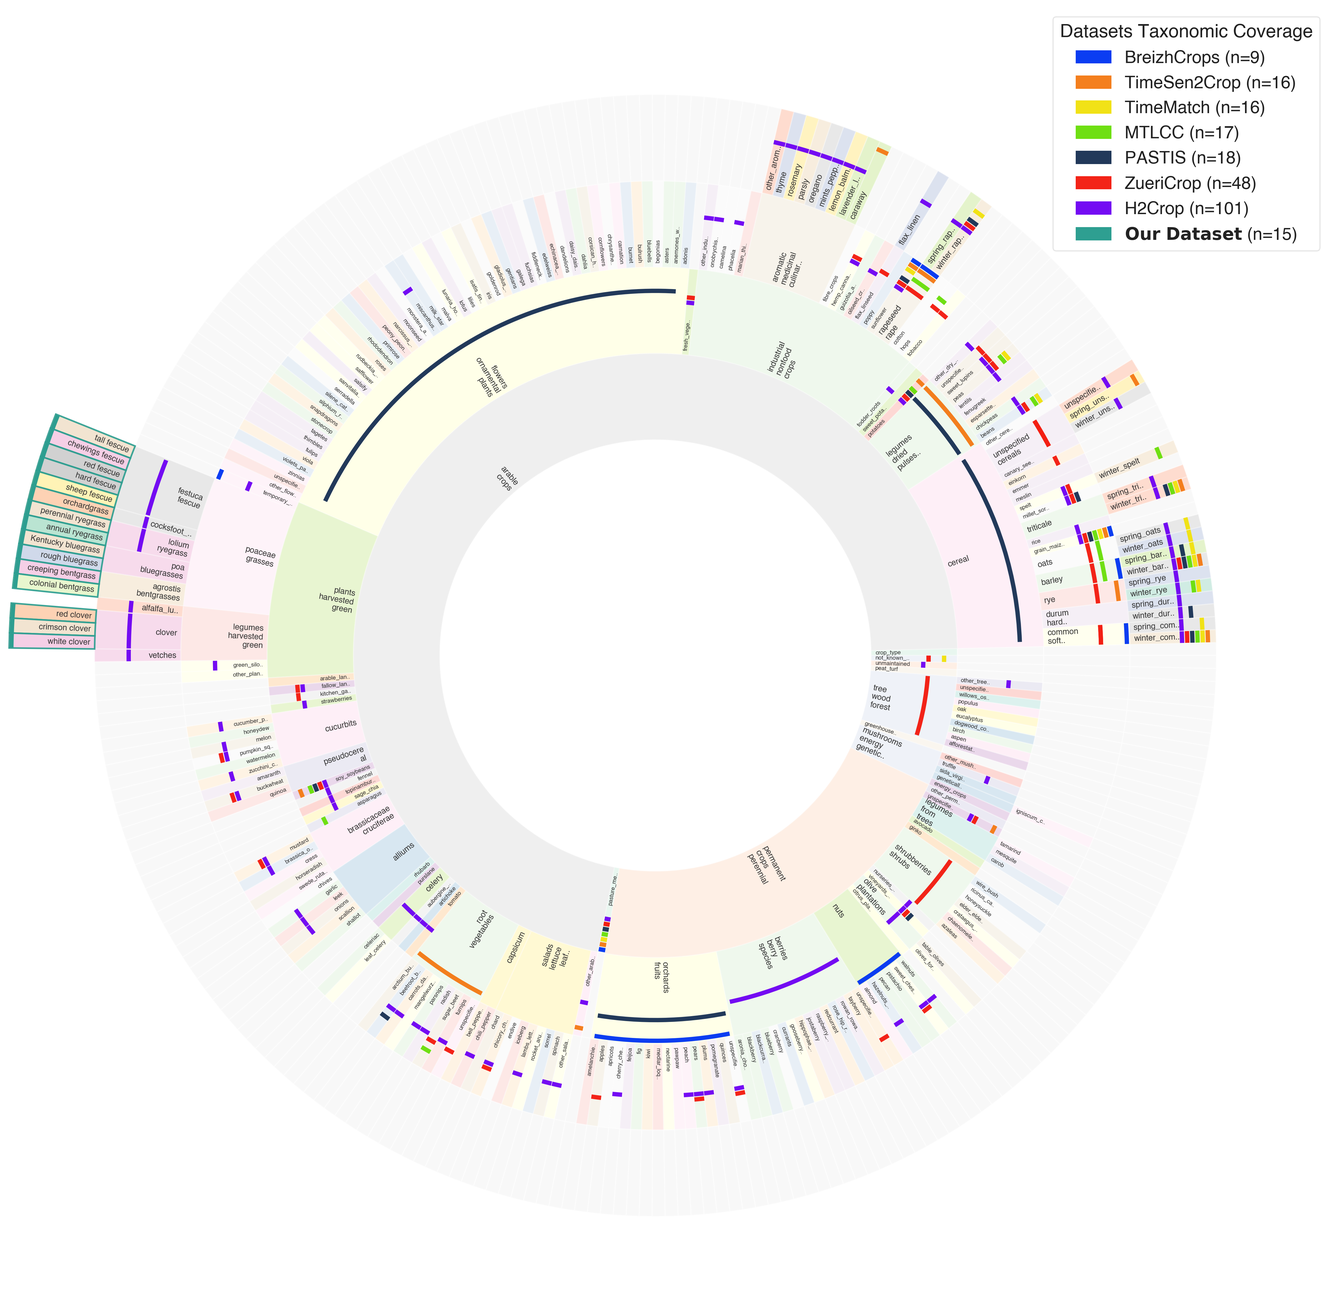
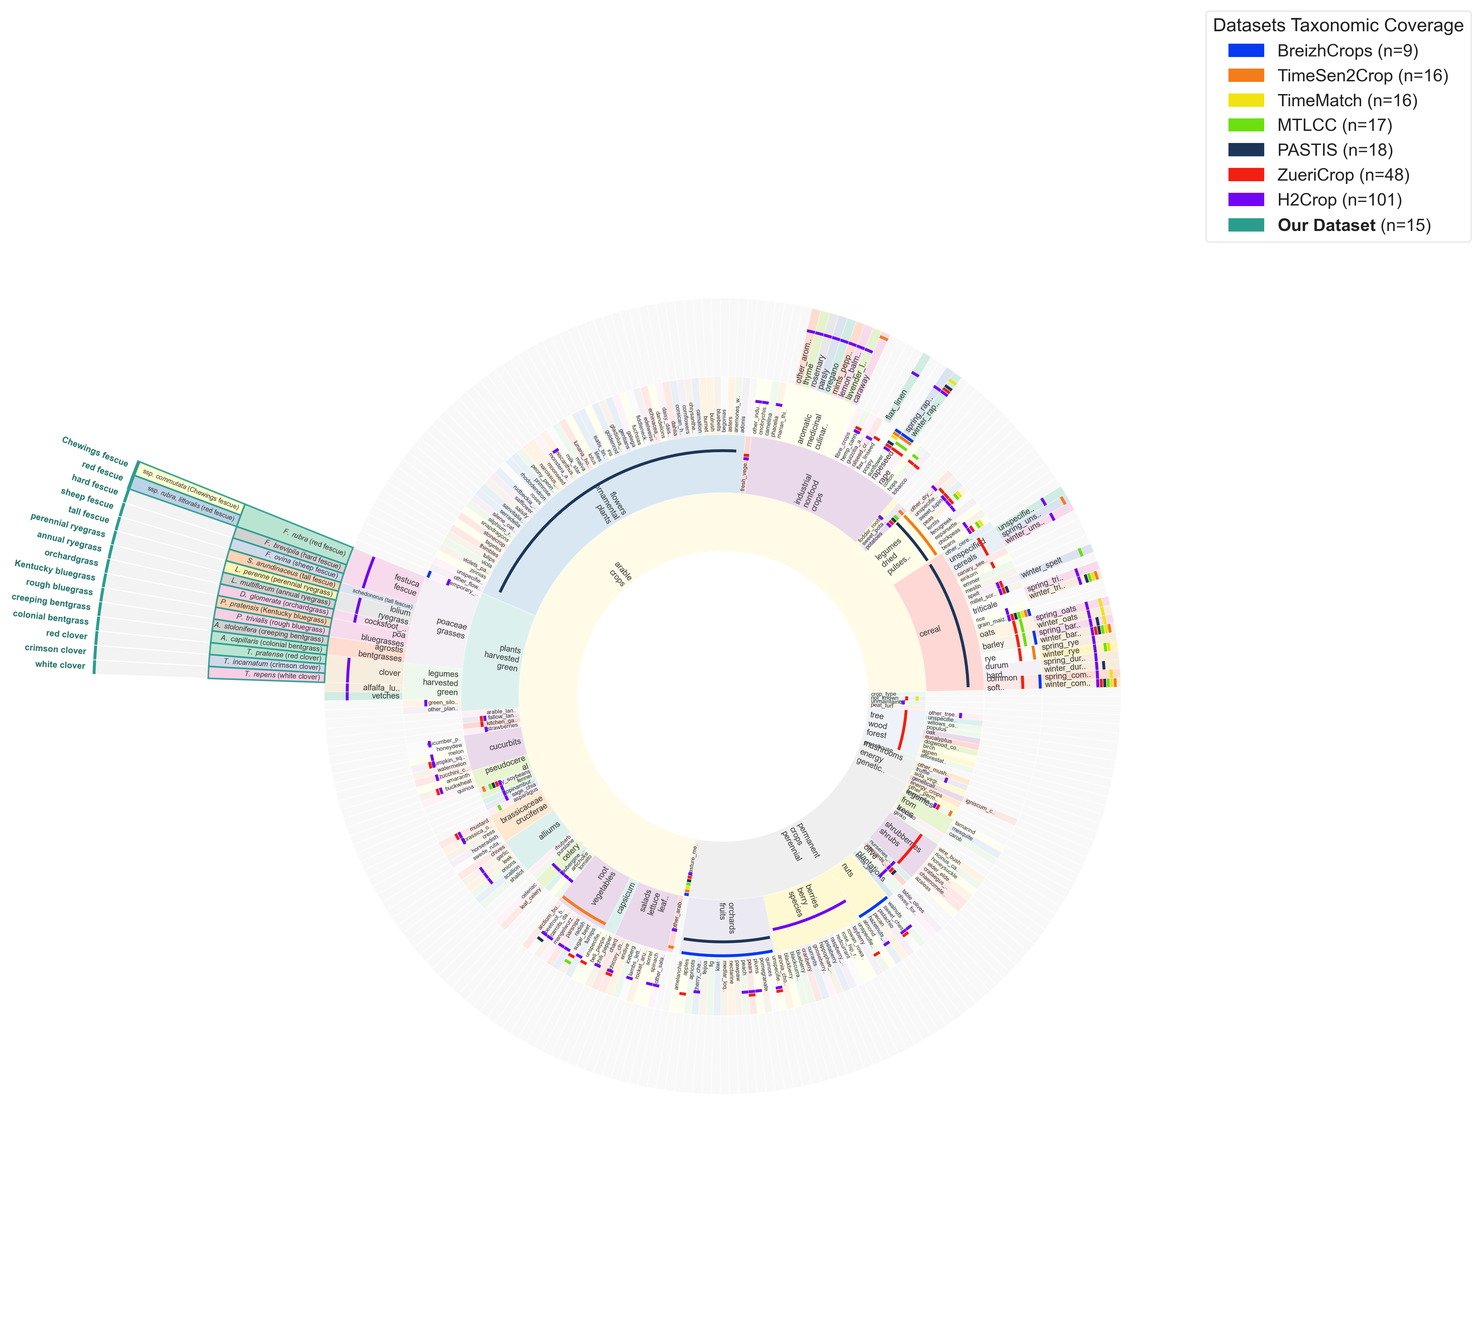
Add cover image, hierarchical label figure, and taxonomy-based sunburst
- Cover: field and close-up photos of 15 species (Wikimedia Commons, USDA NRCS) with photo credits
- Sunburst: genus / species / subspecies rings from scientific names; tall fescue under Schedonorus
- New hierarchical label structure section (CDL class > family > genus > species > subspecies)

Changed region(s): [[0.0, 0.0625, 0.9373, 0.8744], [0.8123, 0.0, 0.9998, 0.1874]]

diff --git a/index.html b/index.html
@@ -111,6 +111,22 @@
       z-index: 100;
     }
 
+    .cover img {
+      cursor: default;
+      border: none;
+      border-radius: 8px;
+      box-shadow: 0 2px 14px rgba(0, 0, 0, 0.12);
+    }
+
+    .credits {
+      color: #555;
+      font-size: 0.9rem;
+    }
+
+    .credits summary {
+      cursor: pointer;
+    }
+
     .caption {
       max-width: 1000px;
       margin: 12px auto 0;
@@ -210,6 +226,11 @@
     <span>Code coming soon</span>
   </div>
 
+  <div class="figure cover">
+    <img src="images/cover.jpg"
+      alt="ORGS-SITS cover: field and close-up photographs of fifteen grass and legume seed crop species">
+  </div>
+
   <p class="intro">
     We introduce <strong>ORGS-SITS</strong> (<strong>OR</strong>egon <strong>G</strong>rass <strong>S</strong>eed – <strong>S</strong>atellite <strong>I</strong>mage <strong>T</strong>ime <strong>S</strong>eries), a benchmark dataset for species-level fine-grained crop mapping
     from satellite image time series (SITS), focusing on closely related grass and legume seed
@@ -256,10 +277,11 @@
     <div class="caption">
       <strong>Dataset comparison under the HCATv3 framework.</strong>
       Markers of different colors represent the category coverage of individual
-      crop mapping datasets. The four concentric rings, ordered from the innermost
-      to the outermost level, represent increasingly fine hierarchical levels of
-      agricultural and crop-category granularity. Our dataset extends beyond the
-      outermost HCAT level to species-level crop labels.
+      crop mapping datasets. The four inner rings represent increasingly fine
+      HCATv3 levels of agricultural and crop-category granularity. Beyond the
+      outermost HCAT level, our classes are further organized into species and
+      subspecies rings according to their scientific names, with class names
+      shown outside.
     </div>
 
   </div>
@@ -298,8 +320,10 @@
     </p>
 
     <p>
-      Following agronomic convention and the HCAT category definitions, tall fescue
-      is grouped with the <i>Festuca</i> species under the HCAT “fescue” category in the figures.
+      In the figures, classes are organized by their scientific names into genus,
+      species, and, where a class is defined below the species level
+      (<i>Festuca rubra</i>), subspecies. Tall fescue is therefore placed in its own
+      genus <i>Schedonorus</i> rather than under the HCAT “festuca_fescue” category.
     </p>
   </div>
 
@@ -312,9 +336,41 @@
 
     <div class="caption">
       <strong>Species-level category coverage of the proposed dataset.</strong>
-      The full fifteen-species taxonomy of the original dataset, placed under
-      HCATv3 agronomic categories. Tall fescue (<i>Schedonorus arundinaceus</i>)
-      is shown under the HCAT fescue category.
+      Zoomed view of the grass and legume sector (left) and its location in the
+      full HCATv3 sunburst (right). The fifteen classes of the original dataset are
+      organized by genus, species, and subspecies; Chewings fescue and red fescue
+      are both subspecies of <i>Festuca rubra</i>.
+    </div>
+  </div>
+
+  <p class="note">
+    Click the figure to open the full-resolution image.
+  </p>
+
+
+  <h2>Hierarchical Label Structure</h2>
+
+  <div class="section-text">
+    <p>
+      ORGS-SITS labels follow a hierarchy from land cover and USDA NASS Cropland
+      Data Layer (CDL) class down to family, genus, species, and subspecies. All
+      nine public classes fall under CDL class 59 (Sod/Grass Seed); non-crop
+      pixels identified from the CDL are merged into a single “Others” class.
+      The empty slots are reserved for non-grass crop classes that may be added
+      in future releases.
+    </p>
+  </div>
+
+  <div class="figure">
+    <a href="images/hierarchical_labels.png" target="_blank">
+      <img
+        src="images/hierarchical_labels.png"
+        alt="Hierarchical label structure of ORGS-SITS">
+    </a>
+
+    <div class="caption">
+      <strong>Hierarchical label structure of the public release.</strong>
+      Dashed boxes are placeholders for future non-grass crop classes.
     </div>
   </div>
 
@@ -375,6 +431,45 @@
     Citation information will be provided after the manuscript becomes publicly
     available.
   </p>
+
+
+  <h2>Photo Credits</h2>
+
+  <details class="credits">
+    <summary>Cover image photographs (Wikimedia Commons and USDA NRCS; cropped and resized)</summary>
+    <ul>
+        <li>tall fescue (field): <a href="https://commons.wikimedia.org/wiki/File:Door_intensieve_landbouw_veroorzaakte,_sterk_gedegradeerde_graslanden_gedomineerd_door_rietzwenkgras_(Schedonorus_arundinaceus).jpg">Wikimedia Commons</a>, Industrees, <a href="http://creativecommons.org/publicdomain/zero/1.0/deed.en">CC0</a></li>
+        <li>tall fescue (closeup): <a href="https://commons.wikimedia.org/wiki/File:Schedonorus_arundinaceus_-_Flickr_-_Matt_Lavin.jpg">Wikimedia Commons</a>, Matt Lavin from Bozeman, Montana, USA, <a href="https://creativecommons.org/licenses/by-sa/2.0">CC BY-SA 2.0</a></li>
+        <li>perennial ryegrass (field): <a href="https://commons.wikimedia.org/wiki/File:Perennial_Ryegrass_Nursery.jpg">Wikimedia Commons</a>, NO1JGFN, <a href="https://creativecommons.org/licenses/by-sa/4.0">CC BY-SA 4.0</a></li>
+        <li>perennial ryegrass (closeup): <a href="https://commons.wikimedia.org/wiki/File:Lolium_perenne_spikelets2_anthesis_(7370357812).jpg">Wikimedia Commons</a>, Harry Rose from South West Rocks, Australia, <a href="https://creativecommons.org/licenses/by/2.0">CC BY 2.0</a></li>
+        <li>annual ryegrass (field): <a href="https://commons.wikimedia.org/wiki/File:Welsches_Weidelgras.JPG">Wikimedia Commons</a>, Blonder1984, <a href="https://creativecommons.org/licenses/by-sa/3.0">CC BY-SA 3.0</a></li>
+        <li>annual ryegrass (closeup): <a href="https://commons.wikimedia.org/wiki/File:Lolium_multiflorum,_Santa_Coloma_de_Farners.jpg">Wikimedia Commons</a>, Josep Gesti, <a href="https://creativecommons.org/licenses/by-sa/4.0">CC BY-SA 4.0</a></li>
+        <li>Kentucky bluegrass (field): <a href="https://commons.wikimedia.org/wiki/File:Blooming_Poa_pratensis.jpg">Wikimedia Commons</a>, Sciencia58, <a href="http://creativecommons.org/publicdomain/zero/1.0/deed.en">CC0</a></li>
+        <li>Kentucky bluegrass (closeup): <a href="https://commons.wikimedia.org/wiki/File:Poa_pratensis_1.jpg">Wikimedia Commons</a>, Sciencia58, <a href="http://creativecommons.org/publicdomain/zero/1.0/deed.en">CC0</a></li>
+        <li>Chewings fescue (field): <a href="https://commons.wikimedia.org/wiki/File:Chewing&#x27;s_fescue_(Festuca_rubra_subsp._commutata)_-_Christchurch_Botanic_Gardens_-_Christchurch,_NZ_-_DSC00995.jpg">Wikimedia Commons</a>, Daderot, <a href="http://creativecommons.org/publicdomain/zero/1.0/deed.en">CC0</a></li>
+        <li>Chewings fescue (closeup): <a href="https://commons.wikimedia.org/wiki/File:Festuca_rubra_(26750501824).jpg">Wikimedia Commons</a>, Donald Hobern from Copenhagen, Denmark, <a href="https://creativecommons.org/licenses/by/2.0">CC BY 2.0</a></li>
+        <li>red fescue (field): <a href="https://commons.wikimedia.org/wiki/File:1352_Rotschwingel_am_Feldweg_der_von_Tiefenbach_nach_Westen_zum_Wald_f%C3%BChrt.jpg">Wikimedia Commons</a>, Kersti Nebelsiek, <a href="https://creativecommons.org/licenses/by-sa/4.0">CC BY-SA 4.0</a></li>
+        <li>red fescue (closeup): <a href="https://commons.wikimedia.org/wiki/File:Festuca_rubra_subsp._rubra_sl15.jpg">Wikimedia Commons</a>, Stefan.lefnaer, <a href="https://creativecommons.org/licenses/by-sa/4.0">CC BY-SA 4.0</a></li>
+        <li>hard fescue (field): <a href="https://www.nrcs.usda.gov/plantmaterials/wapmcpg14125.pdf">USDA NRCS Plant Guide for hard fescue (MacMillan, Wayment &amp; Lee, 2024)</a>, Dave Skinner, USDA-NRCS, Public domain (U.S. Government work)</li>
+        <li>hard fescue (closeup): <a href="https://commons.wikimedia.org/wiki/File:Festuca_brevipila-2.jpg">Wikimedia Commons</a>, Rainer Burkard, <a href="https://creativecommons.org/licenses/by-sa/4.0">CC BY-SA 4.0</a></li>
+        <li>orchardgrass (field): <a href="https://commons.wikimedia.org/wiki/File:Horstvorming_bij_kropaar_(Dactylis_glomerata).jpg">Wikimedia Commons</a>, Cultureel Gelderland, <a href="http://creativecommons.org/publicdomain/zero/1.0/deed.en">CC0</a></li>
+        <li>orchardgrass (closeup): <a href="https://commons.wikimedia.org/wiki/File:20150521Dactylis_glomerata2.jpg">Wikimedia Commons</a>, AnRo0002, <a href="http://creativecommons.org/publicdomain/zero/1.0/deed.en">CC0</a></li>
+        <li>creeping bentgrass (field): <a href="https://commons.wikimedia.org/wiki/File:Agrostis_stolonifera_(3820197869).jpg">Wikimedia Commons</a>, Matt Lavin from Bozeman, Montana, USA, <a href="https://creativecommons.org/licenses/by-sa/2.0">CC BY-SA 2.0</a></li>
+        <li>creeping bentgrass (closeup): <a href="https://commons.wikimedia.org/wiki/File:Agrostis_stolonifera_inflorescens_(4).jpg">Wikimedia Commons</a>, Andrea Moro, <a href="https://creativecommons.org/licenses/by-sa/4.0">CC BY-SA 4.0</a></li>
+        <li>sheep fescue (field): <a href="https://www.nrcs.usda.gov/plantmaterials/wapmcpg12477.pdf">USDA NRCS Plant Guide for sheep fescue (Ogle et al., 2010)</a>, D. Ogle, NRCS, Public domain (U.S. Government work)</li>
+        <li>sheep fescue (closeup): <a href="https://commons.wikimedia.org/wiki/File:Atlas_roslin_pl_Kostrzewa_owcza_6694_8347.jpg">Wikimedia Commons</a>, Joanna Boisse, <a href="https://creativecommons.org/licenses/by-sa/4.0">CC BY-SA 4.0</a></li>
+        <li>rough bluegrass (field): <a href="https://commons.wikimedia.org/wiki/File:Gemeine_Rispe_Reinwuchs_um_Hangquelle_in_Schottwien,_Semmeringgebiet,_Nieder%C3%B6sterreich_20100421.jpg">Wikimedia Commons</a>, Futterwiesenjefe, <a href="https://creativecommons.org/licenses/by-sa/4.0">CC BY-SA 4.0</a></li>
+        <li>rough bluegrass (closeup): <a href="https://commons.wikimedia.org/wiki/File:Poa_trivialis_kz02.jpg">Wikimedia Commons</a>, Krzysztof Ziarnek, Kenraiz, <a href="https://creativecommons.org/licenses/by-sa/4.0">CC BY-SA 4.0</a></li>
+        <li>colonial bentgrass (field): <a href="https://commons.wikimedia.org/wiki/File:Agrostis_capillaris_sl15.jpg">Wikimedia Commons</a>, Stefan.lefnaer, <a href="https://creativecommons.org/licenses/by-sa/4.0">CC BY-SA 4.0</a></li>
+        <li>colonial bentgrass (closeup): <a href="https://commons.wikimedia.org/wiki/File:20160624Agrostis_capillaris2.jpg">Wikimedia Commons</a>, AnRo0002, <a href="http://creativecommons.org/publicdomain/zero/1.0/deed.en">CC0</a></li>
+        <li>red clover (field): <a href="https://commons.wikimedia.org/wiki/File:Bochum_-_Vor_den_Teichen_-_Rotklee_02_ies.jpg">Wikimedia Commons</a>, Frank Vincentz, <a href="https://creativecommons.org/licenses/by-sa/3.0">CC BY-SA 3.0</a></li>
+        <li>red clover (closeup): <a href="https://commons.wikimedia.org/wiki/File:2009-09-25_(17)_Trifolium_pratense.jpg">Wikimedia Commons</a>, Vera Buhl, <a href="https://creativecommons.org/licenses/by-sa/3.0">CC BY-SA 3.0</a></li>
+        <li>crimson clover (field): <a href="https://commons.wikimedia.org/wiki/File:Trifolium_incarnatum_field.jpg">Wikimedia Commons</a>, Nefronus, <a href="https://creativecommons.org/licenses/by-sa/4.0">CC BY-SA 4.0</a></li>
+        <li>crimson clover (closeup): <a href="https://commons.wikimedia.org/wiki/File:2019_Blutklee_01.jpg">Wikimedia Commons</a>, Derzno, <a href="https://creativecommons.org/licenses/by-sa/4.0">CC BY-SA 4.0</a></li>
+        <li>white clover (field): <a href="https://commons.wikimedia.org/wiki/File:Field_of_white_clover_-_16_June_2025.jpg">Wikimedia Commons</a>, Aethonatic, <a href="http://creativecommons.org/publicdomain/zero/1.0/deed.en">CC0</a></li>
+        <li>white clover (closeup): <a href="https://commons.wikimedia.org/wiki/File:Trifolium_repens_inflorescence_-_Niitv%C3%A4lja.jpg">Wikimedia Commons</a>, Ivar Leidus, <a href="https://creativecommons.org/licenses/by-sa/4.0">CC BY-SA 4.0</a></li>
+    </ul>
+  </details>
 
 
   <footer>

diff --git a/images/cover_credits.md b/images/cover_credits.md
@@ -1,0 +1,36 @@
+# Cover image photo credits
+
+The cover image is a composite of the photographs below (Wikimedia Commons and USDA NRCS). Photos are cropped and resized. Licences as listed.
+
+| Species | Photo | Author | Licence | Source |
+|---|---|---|---|---|
+| tall fescue (*Schedonorus arundinaceus*) | field | Industrees | [CC0](http://creativecommons.org/publicdomain/zero/1.0/deed.en) | [Wikimedia Commons](https://commons.wikimedia.org/wiki/File:Door_intensieve_landbouw_veroorzaakte,_sterk_gedegradeerde_graslanden_gedomineerd_door_rietzwenkgras_(Schedonorus_arundinaceus).jpg) |
+| tall fescue (*Schedonorus arundinaceus*) | closeup | Matt Lavin from Bozeman, Montana, USA | [CC BY-SA 2.0](https://creativecommons.org/licenses/by-sa/2.0) | [Wikimedia Commons](https://commons.wikimedia.org/wiki/File:Schedonorus_arundinaceus_-_Flickr_-_Matt_Lavin.jpg) |
+| perennial ryegrass (*Lolium perenne*) | field | NO1JGFN | [CC BY-SA 4.0](https://creativecommons.org/licenses/by-sa/4.0) | [Wikimedia Commons](https://commons.wikimedia.org/wiki/File:Perennial_Ryegrass_Nursery.jpg) |
+| perennial ryegrass (*Lolium perenne*) | closeup | Harry Rose from South West Rocks, Australia | [CC BY 2.0](https://creativecommons.org/licenses/by/2.0) | [Wikimedia Commons](https://commons.wikimedia.org/wiki/File:Lolium_perenne_spikelets2_anthesis_(7370357812).jpg) |
+| annual ryegrass (*Lolium multiflorum*) | field | Blonder1984 | [CC BY-SA 3.0](https://creativecommons.org/licenses/by-sa/3.0) | [Wikimedia Commons](https://commons.wikimedia.org/wiki/File:Welsches_Weidelgras.JPG) |
+| annual ryegrass (*Lolium multiflorum*) | closeup | Josep Gesti | [CC BY-SA 4.0](https://creativecommons.org/licenses/by-sa/4.0) | [Wikimedia Commons](https://commons.wikimedia.org/wiki/File:Lolium_multiflorum,_Santa_Coloma_de_Farners.jpg) |
+| Kentucky bluegrass (*Poa pratensis*) | field | Sciencia58 | [CC0](http://creativecommons.org/publicdomain/zero/1.0/deed.en) | [Wikimedia Commons](https://commons.wikimedia.org/wiki/File:Blooming_Poa_pratensis.jpg) |
+| Kentucky bluegrass (*Poa pratensis*) | closeup | Sciencia58 | [CC0](http://creativecommons.org/publicdomain/zero/1.0/deed.en) | [Wikimedia Commons](https://commons.wikimedia.org/wiki/File:Poa_pratensis_1.jpg) |
+| Chewings fescue (*Festuca rubra ssp. commutata*) | field | Daderot | [CC0](http://creativecommons.org/publicdomain/zero/1.0/deed.en) | [Wikimedia Commons](https://commons.wikimedia.org/wiki/File:Chewing's_fescue_(Festuca_rubra_subsp._commutata)_-_Christchurch_Botanic_Gardens_-_Christchurch,_NZ_-_DSC00995.jpg) |
+| Chewings fescue (*Festuca rubra ssp. commutata*) | closeup | Donald Hobern from Copenhagen, Denmark | [CC BY 2.0](https://creativecommons.org/licenses/by/2.0) | [Wikimedia Commons](https://commons.wikimedia.org/wiki/File:Festuca_rubra_(26750501824).jpg) |
+| red fescue (*Festuca rubra ssp. rubra / littoralis*) | field | Kersti Nebelsiek | [CC BY-SA 4.0](https://creativecommons.org/licenses/by-sa/4.0) | [Wikimedia Commons](https://commons.wikimedia.org/wiki/File:1352_Rotschwingel_am_Feldweg_der_von_Tiefenbach_nach_Westen_zum_Wald_f%C3%BChrt.jpg) |
+| red fescue (*Festuca rubra ssp. rubra / littoralis*) | closeup | Stefan.lefnaer | [CC BY-SA 4.0](https://creativecommons.org/licenses/by-sa/4.0) | [Wikimedia Commons](https://commons.wikimedia.org/wiki/File:Festuca_rubra_subsp._rubra_sl15.jpg) |
+| hard fescue (*Festuca brevipila*) | field | Dave Skinner, USDA-NRCS | Public domain (U.S. Government work) | [USDA NRCS Plant Guide for hard fescue (MacMillan, Wayment & Lee, 2024)](https://www.nrcs.usda.gov/plantmaterials/wapmcpg14125.pdf) |
+| hard fescue (*Festuca brevipila*) | closeup | Rainer Burkard | [CC BY-SA 4.0](https://creativecommons.org/licenses/by-sa/4.0) | [Wikimedia Commons](https://commons.wikimedia.org/wiki/File:Festuca_brevipila-2.jpg) |
+| orchardgrass (*Dactylis glomerata*) | field | Cultureel Gelderland | [CC0](http://creativecommons.org/publicdomain/zero/1.0/deed.en) | [Wikimedia Commons](https://commons.wikimedia.org/wiki/File:Horstvorming_bij_kropaar_(Dactylis_glomerata).jpg) |
+| orchardgrass (*Dactylis glomerata*) | closeup | AnRo0002 | [CC0](http://creativecommons.org/publicdomain/zero/1.0/deed.en) | [Wikimedia Commons](https://commons.wikimedia.org/wiki/File:20150521Dactylis_glomerata2.jpg) |
+| creeping bentgrass (*Agrostis stolonifera*) | field | Matt Lavin from Bozeman, Montana, USA | [CC BY-SA 2.0](https://creativecommons.org/licenses/by-sa/2.0) | [Wikimedia Commons](https://commons.wikimedia.org/wiki/File:Agrostis_stolonifera_(3820197869).jpg) |
+| creeping bentgrass (*Agrostis stolonifera*) | closeup | Andrea Moro | [CC BY-SA 4.0](https://creativecommons.org/licenses/by-sa/4.0) | [Wikimedia Commons](https://commons.wikimedia.org/wiki/File:Agrostis_stolonifera_inflorescens_(4).jpg) |
+| sheep fescue (*Festuca ovina*) | field | D. Ogle, NRCS | Public domain (U.S. Government work) | [USDA NRCS Plant Guide for sheep fescue (Ogle et al., 2010)](https://www.nrcs.usda.gov/plantmaterials/wapmcpg12477.pdf) |
+| sheep fescue (*Festuca ovina*) | closeup | Joanna Boisse | [CC BY-SA 4.0](https://creativecommons.org/licenses/by-sa/4.0) | [Wikimedia Commons](https://commons.wikimedia.org/wiki/File:Atlas_roslin_pl_Kostrzewa_owcza_6694_8347.jpg) |
+| rough bluegrass (*Poa trivialis*) | field | Futterwiesenjefe | [CC BY-SA 4.0](https://creativecommons.org/licenses/by-sa/4.0) | [Wikimedia Commons](https://commons.wikimedia.org/wiki/File:Gemeine_Rispe_Reinwuchs_um_Hangquelle_in_Schottwien,_Semmeringgebiet,_Nieder%C3%B6sterreich_20100421.jpg) |
+| rough bluegrass (*Poa trivialis*) | closeup | Krzysztof Ziarnek, Kenraiz | [CC BY-SA 4.0](https://creativecommons.org/licenses/by-sa/4.0) | [Wikimedia Commons](https://commons.wikimedia.org/wiki/File:Poa_trivialis_kz02.jpg) |
+| colonial bentgrass (*Agrostis capillaris*) | field | Stefan.lefnaer | [CC BY-SA 4.0](https://creativecommons.org/licenses/by-sa/4.0) | [Wikimedia Commons](https://commons.wikimedia.org/wiki/File:Agrostis_capillaris_sl15.jpg) |
+| colonial bentgrass (*Agrostis capillaris*) | closeup | AnRo0002 | [CC0](http://creativecommons.org/publicdomain/zero/1.0/deed.en) | [Wikimedia Commons](https://commons.wikimedia.org/wiki/File:20160624Agrostis_capillaris2.jpg) |
+| red clover (*Trifolium pratense*) | field | Frank Vincentz | [CC BY-SA 3.0](https://creativecommons.org/licenses/by-sa/3.0) | [Wikimedia Commons](https://commons.wikimedia.org/wiki/File:Bochum_-_Vor_den_Teichen_-_Rotklee_02_ies.jpg) |
+| red clover (*Trifolium pratense*) | closeup | Vera Buhl | [CC BY-SA 3.0](https://creativecommons.org/licenses/by-sa/3.0) | [Wikimedia Commons](https://commons.wikimedia.org/wiki/File:2009-09-25_(17)_Trifolium_pratense.jpg) |
+| crimson clover (*Trifolium incarnatum*) | field | Nefronus | [CC BY-SA 4.0](https://creativecommons.org/licenses/by-sa/4.0) | [Wikimedia Commons](https://commons.wikimedia.org/wiki/File:Trifolium_incarnatum_field.jpg) |
+| crimson clover (*Trifolium incarnatum*) | closeup | Derzno | [CC BY-SA 4.0](https://creativecommons.org/licenses/by-sa/4.0) | [Wikimedia Commons](https://commons.wikimedia.org/wiki/File:2019_Blutklee_01.jpg) |
+| white clover (*Trifolium repens*) | field | Aethonatic | [CC0](http://creativecommons.org/publicdomain/zero/1.0/deed.en) | [Wikimedia Commons](https://commons.wikimedia.org/wiki/File:Field_of_white_clover_-_16_June_2025.jpg) |
+| white clover (*Trifolium repens*) | closeup | Ivar Leidus | [CC BY-SA 4.0](https://creativecommons.org/licenses/by-sa/4.0) | [Wikimedia Commons](https://commons.wikimedia.org/wiki/File:Trifolium_repens_inflorescence_-_Niitv%C3%A4lja.jpg) |

diff --git a/README.md b/README.md
@@ -18,6 +18,11 @@
 
 </div>
 
+<p align="center">
+  <img src="images/cover.jpg" width="100%" alt="ORGS-SITS cover: field and close-up photographs of the crop species">
+</p>
+<p align="center"><sub>Cover photos: Wikimedia Commons contributors (CC0 / CC BY / CC BY-SA), cropped and resized — see <a href="images/cover_credits.md">photo credits</a>.</sub></p>
+
 ---
 
 ## 📰 News
@@ -43,17 +48,18 @@ differentiation under high spectral, phenological, and taxonomic similarity.
 </p>
 <p align="center"><sub>
 <b>Dataset comparison under the HCATv3 framework.</b> Coloured markers show the category
-coverage of public crop mapping datasets; the four rings represent increasingly fine HCAT
-levels. ORGS-SITS extends beyond the outermost HCAT level to species-level labels.
+coverage of public crop mapping datasets; the four inner rings represent increasingly fine HCAT
+levels. ORGS-SITS extends beyond the outermost HCAT level with species and subspecies rings
+defined by the crops' scientific names.
 </sub></p>
 
 <p align="center">
   <img src="images/zoom-in.png" width="85%" alt="Species-level category coverage of the proposed dataset">
 </p>
 <p align="center"><sub>
-<b>Species-level category coverage of the proposed dataset.</b> The full fifteen-species
-taxonomy of the original dataset, placed under HCATv3 agronomic categories. Tall fescue
-(<i>Schedonorus arundinaceus</i>) is shown under the HCAT fescue category.
+<b>Species-level category coverage of the proposed dataset.</b> The fifteen classes of the
+original dataset organized by genus, species, and subspecies; tall fescue is placed in its own
+genus <i>Schedonorus</i>, and Chewings and red fescue are subspecies of <i>Festuca rubra</i>.
 </sub></p>
 
 ## 🗂 Dataset
@@ -80,10 +86,20 @@ public release:
 | 9 | Creeping bentgrass | *Agrostis stolonifera* L. |
 
 <sub>¹ Includes strong creeping red fescue (*F. rubra* ssp. *rubra*) and slender creeping red
-fescue (*F. rubra* ssp. *littoralis*). In the figures, tall fescue is grouped with the
-*Festuca* species under the HCATv3 "fescue" category, following agronomic convention.</sub>
+fescue (*F. rubra* ssp. *littoralis*).</sub>
 
 <!-- TODO: add sample counts per class. -->
+
+### Hierarchical labels
+
+Labels follow a hierarchy from land cover and USDA NASS Cropland Data Layer (CDL) class down
+to family, genus, species, and subspecies. Non-crop pixels identified from the CDL (classes 82,
+83, 87, 92, 111, 121–124) are merged into **Others**; all other unlabeled pixels are **Ignore**.
+Dashed boxes are reserved for non-grass crop classes in future releases.
+
+<p align="center">
+  <img src="images/hierarchical_labels.png" width="90%" alt="Hierarchical label structure of ORGS-SITS">
+</p>
 
 ### Data format
 
